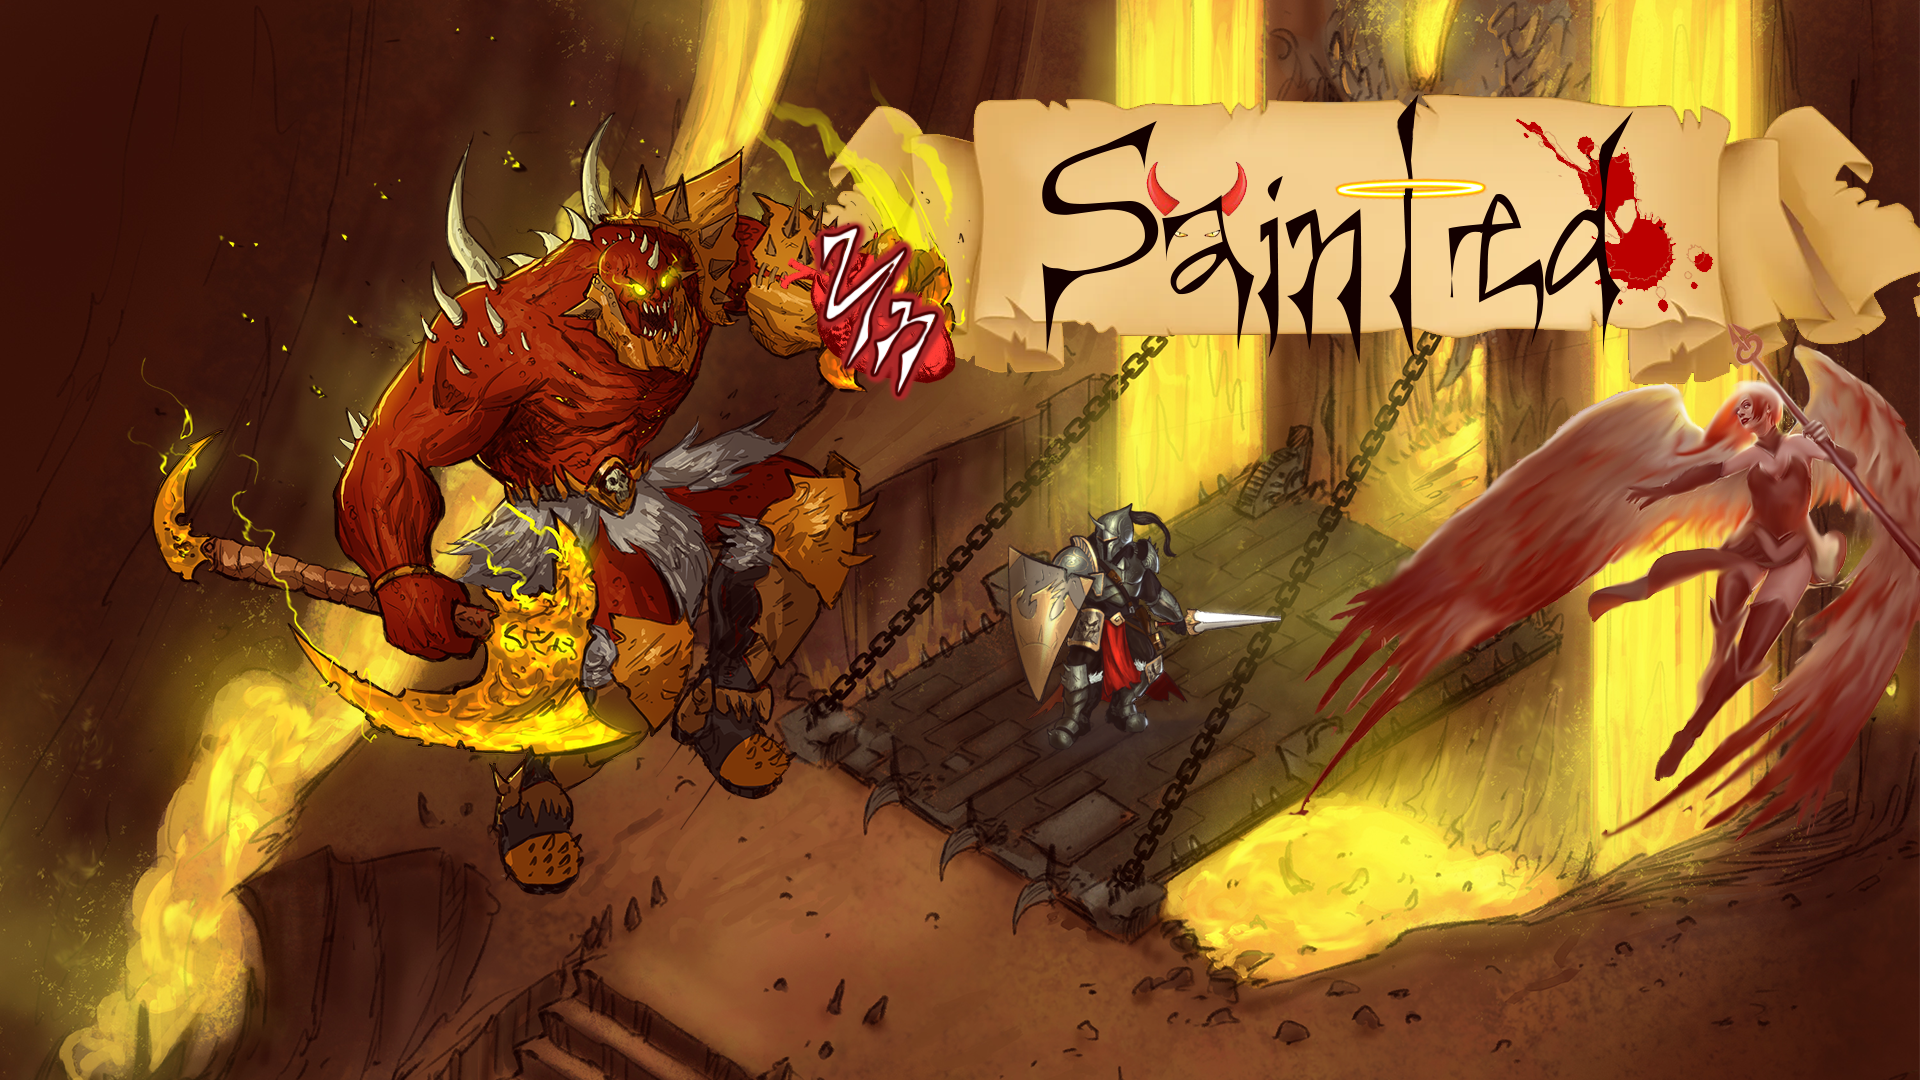
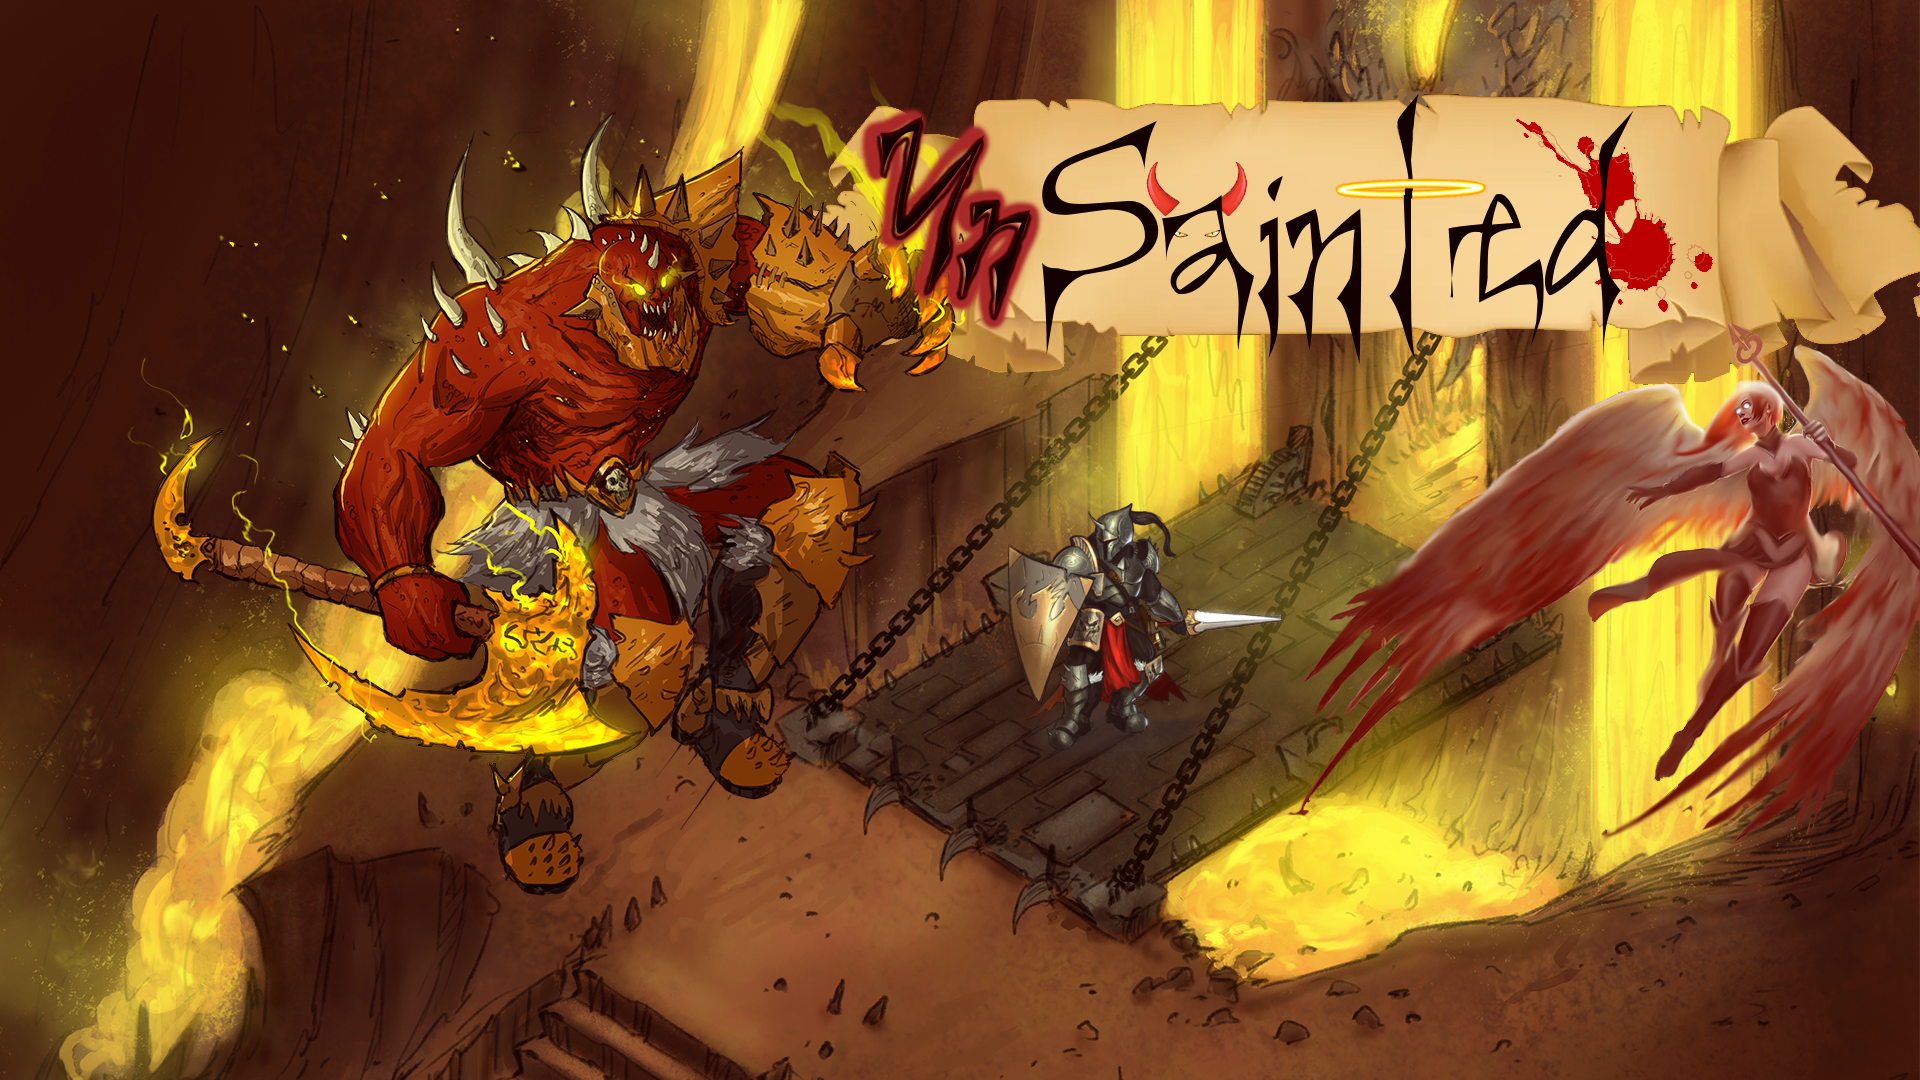
better settings + network gui, fixed un (unsainted) in MM

Changed region(s): [[0.4062, 0.0917, 0.5625, 0.3667]]

diff --git a/src/de/prog2/dungeontop/view/SettingsController.java b/src/de/prog2/dungeontop/view/SettingsController.java
@@ -6,6 +6,7 @@ import de.prog2.dungeontop.control.network.IPChecker;
 import de.prog2.dungeontop.resources.NetworkingConstants;
 import de.prog2.dungeontop.resources.ViewStrings;
 import de.prog2.dungeontop.utils.GlobalLogger;
+import javafx.application.Platform;
 import javafx.fxml.FXML;
 import javafx.fxml.FXMLLoader;
 import javafx.scene.Scene;
@@ -13,6 +14,7 @@ import javafx.scene.control.ChoiceBox;
 import javafx.scene.control.Label;
 import javafx.scene.control.Slider;
 import javafx.scene.layout.AnchorPane;
+import javafx.scene.paint.Color;
 import javafx.stage.Modality;
 import javafx.stage.Stage;
 import javafx.stage.StageStyle;
@@ -46,6 +48,25 @@ public class SettingsController {
     private void onSaveButtonPressed()
     {
         hideSettings();
+    }
+
+    @FXML
+    private void onExitButtonPressed()
+    {
+        Platform.exit();
+    }
+
+    @FXML
+    private void onMMButtonPressed()
+    {
+        hideSettings();
+        Scene scene = new Scene(new AnchorPane());
+        try {
+            scene = new Scene(new FXMLLoader().load(DungeonTop.class.getClassLoader().getResourceAsStream(ViewStrings.MAIN_MENUE_FXML)));
+        } catch (IOException e) {
+            throw new RuntimeException(e);
+        }
+        DungeonTop.getStage().setScene(scene);
     }
 
     /**
@@ -82,7 +103,7 @@ public class SettingsController {
         final FXMLLoader fxmlLoader = new FXMLLoader();
         settingsStage.initModality(Modality.APPLICATION_MODAL);
         settingsStage.initOwner(DungeonTop.getStage());
-        settingsStage.initStyle(StageStyle.UNDECORATED);
+        settingsStage.initStyle(StageStyle.TRANSPARENT);
         AnchorPane rootPane = new AnchorPane();
         try
         {
@@ -91,7 +112,7 @@ public class SettingsController {
         {
             GlobalLogger.warning(e.getMessage());
         }
-        final Scene settingsScene = new Scene(rootPane);
+        final Scene settingsScene = new Scene(rootPane, Color.TRANSPARENT);
         settingsStage.setScene(settingsScene);
     }
 

diff --git a/src/de/prog2/dungeontop/view/NetworkController.java b/src/de/prog2/dungeontop/view/NetworkController.java
@@ -11,6 +11,7 @@ import javafx.scene.Scene;
 import javafx.scene.control.Label;
 import javafx.scene.control.TextField;
 import javafx.scene.layout.AnchorPane;
+import javafx.scene.paint.Color;
 import javafx.stage.Modality;
 import javafx.stage.Stage;
 import javafx.stage.StageStyle;
@@ -48,7 +49,7 @@ public class NetworkController {
         final FXMLLoader fxmlLoader = new FXMLLoader();
         networkStage.initModality(Modality.APPLICATION_MODAL);
         networkStage.initOwner(DungeonTop.getStage());
-        networkStage.initStyle(StageStyle.UNDECORATED);
+        networkStage.initStyle(StageStyle.TRANSPARENT);
         AnchorPane rootPane = new AnchorPane();
         try
         {
@@ -57,7 +58,7 @@ public class NetworkController {
         {
             GlobalLogger.warning(e.getMessage());
         }
-        final Scene settingsScene = new Scene(rootPane);
+        final Scene settingsScene = new Scene(rootPane, Color.TRANSPARENT);
         networkStage.setScene(settingsScene);
     }
 
